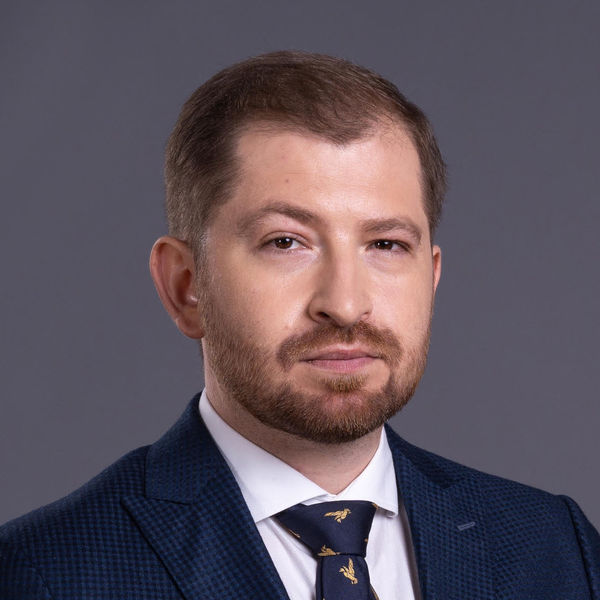
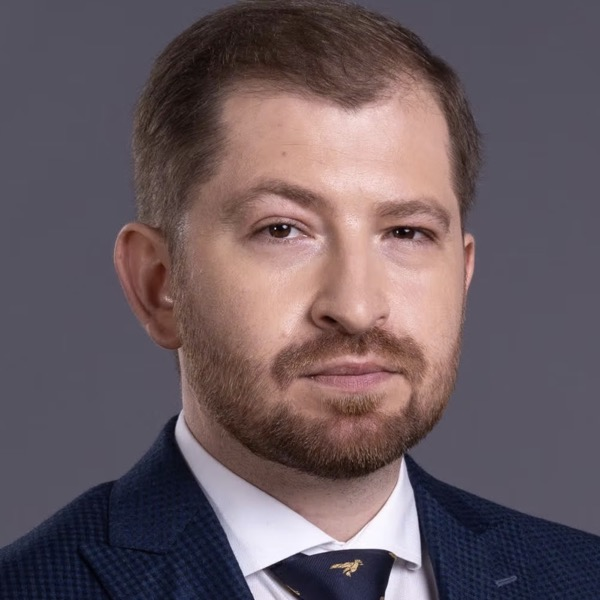
Give Artyushenko his photo on About and stop hotlinking portraits
На картці Анатолія Артюшенка стояла плашка з ініціалами: у старих даних його
ключ фото збігався з ключем Єгора, тож картка показувала чужий портрет, і я
прибрав його замість того, щоб показувати не ту людину. Його фотографія весь
час була на сторінці медичного страхування — перенесено звідти.

Портрети більше не тягнуться з чужих доменів: фото Артюшенка на dms.html
підключалося з Wix, актуальне фото Єгора — з Google Drive через інлайновий
скрипт. Обидва завантажено локально.

Той інлайновий скрипт патчив стару розмітку «Про нас», якої вже немає, бо
?page=about тепер веде на about.html — лишено тільки скидання скролу.

diff --git a/index.html b/index.html
@@ -11,4 +11,4 @@
 })();
 </script><meta name="theme-color" content="#142a46"><title>Страхове бюро «Компаньйон» — страхування для бізнесу</title><link rel="icon" href="presentation-assets/companion-logo.png"><link rel="stylesheet" href="styles.css"><link rel="stylesheet" href="home.css"><style>.site-nav a{transition:transform .16s ease,color .16s ease,border-color .16s ease}.site-nav a:hover{transform:translateY(-4px)}@media(prefers-reduced-motion:reduce){.site-nav a{transition:none}}.site-nav a.nav-active{color:#245dce;border-color:#245dce;transform:translateY(-4px)}body:not(.about-page) .signature{display:none!important}.about-page .person:first-child img{width:250px!important;height:250px!important;object-fit:contain!important;object-position:center!important;border-radius:50%!important;padding:26px!important;background:#e7eaef!important;clip-path:none!important}@media(max-width:700px){.about-page .person:first-child img{width:180px!important;height:180px!important;padding:18px!important}}</style></head><body>
 <a class="skip-link" href="#content">Перейти до основного контенту</a><header class="site-header"><div class="shell header-inner"><a class="brand" href="index.html" aria-label="Страхове бюро «Компаньйон» — на головну"><img src="presentation-assets/companion-logo.png" alt="Страхове бюро «Компаньйон»"></a><button class="menu-toggle" type="button" aria-expanded="false" aria-controls="site-nav">Меню</button><nav id="site-nav" class="site-nav" aria-label="Сайт"><a data-page="services" href="index.html?page=services">Послуги</a><a href="dms.html">Медичне страхування</a><a href="logistyka.html">Логістика</a><a href="yak-my-pratsyuyemo.html">Як працюємо</a><a data-page="about" href="about.html">Про нас</a><a href="partners.html">Страхові компанії</a><a href="app.html">Застосунок</a><a class="header-meeting" href="index.html#meeting">Домовитися про зустріч ↗</a></nav></div></header><main id="content"></main>
-<footer class="site-footer"><div class="shell footer-bar"><div class="footer-contacts"><a href="tel:+380501452605">+38 (050) 145 2605</a><a href="mailto:egor_m@icompanion.com.ua">egor_m@icompanion.com.ua</a><a href="https://t.me/EgorMuratov" target="_blank" rel="noreferrer">Telegram</a><a href="contacts.html">Контакти</a></div><div class="footer-legal"><span>ЄДРПОУ 39337363 · Реєстр брокерів № 35</span><a href="regulatory.html">Розкриття</a><a href="insurance-products.html">Продукти</a><a href="privacy.html">Персональні дані</a></div></div></footer><script src="home.js?v=6"></script><script src="script.js?v=15"></script><script>(()=>{const p=new URLSearchParams(location.search);if(p.get('page')==='about'){document.body.classList.add('about-page');const people=[...document.querySelectorAll('.person')];const yehor=people[0];const yehorPhoto=yehor?.querySelector('img');if(yehorPhoto){yehorPhoto.src='https://drive.google.com/uc?export=view&id=1pCVYWNGkw7fjjvcWYgz83RYEbNGpzCLN&v=4';yehorPhoto.alt='Єгор Муратов';}const art=people.find(el=>el.textContent.toLocaleUpperCase('uk-UA').includes('АНАТОЛІЙ АРТЮШЕНКО'));const photo=art?.querySelector('img');if(photo){photo.src='https://static.wixstatic.com/media/4d8e25_5c40445e2b604a378b1fc3bbc891b8ba~mv2.jpg';photo.alt='Анатолій Артюшенко';}}if(!p.get('page')&&!location.hash){window.scrollTo({top:0,left:0,behavior:'instant'});}})();</script></body></html>
+<footer class="site-footer"><div class="shell footer-bar"><div class="footer-contacts"><a href="tel:+380501452605">+38 (050) 145 2605</a><a href="mailto:egor_m@icompanion.com.ua">egor_m@icompanion.com.ua</a><a href="https://t.me/EgorMuratov" target="_blank" rel="noreferrer">Telegram</a><a href="contacts.html">Контакти</a></div><div class="footer-legal"><span>ЄДРПОУ 39337363 · Реєстр брокерів № 35</span><a href="regulatory.html">Розкриття</a><a href="insurance-products.html">Продукти</a><a href="privacy.html">Персональні дані</a></div></div></footer><script src="home.js?v=7"></script><script src="script.js?v=16"></script><script>(()=>{const p=new URLSearchParams(location.search);if(!p.get('page')&&!location.hash){window.scrollTo({top:0,left:0,behavior:'instant'});}})();</script></body></html>

diff --git a/dms.html b/dms.html
@@ -326,7 +326,7 @@
     <section class="section medical" id="support" aria-labelledby="support-title">
       <div class="wrap medical-grid">
         <figure class="expert-card">
-          <img class="expert-photo" src="https://static.wixstatic.com/media/4d8e25_5c40445e2b604a378b1fc3bbc891b8ba~mv2.jpg/v1/fill/w_385%2Ch_443%2Cal_c%2Cq_80%2Cusm_0.66_1.00_0.01%2Cenc_avif%2Cquality_auto/4d8e25_5c40445e2b604a378b1fc3bbc891b8ba~mv2.jpg" alt="Анатолій Артюшенко" width="385" height="443" loading="lazy" decoding="async">
+          <img class="expert-photo" src="presentation-assets/team/anatolii-portrait.jpg" alt="Анатолій Артюшенко" width="385" height="443" loading="lazy">
           <figcaption class="expert-caption">
             <strong class="expert-name">Анатолій Артюшенко</strong>
             <p class="expert-role">Старший партнер, директор з особистих видів страхування</p>

diff --git a/about.html b/about.html
@@ -111,7 +111,7 @@
           </article>
 
           <article class="team-member">
-            <div class="team-initials" aria-hidden="true">АА</div>
+            <img class="team-photo" src="presentation-assets/team/anatolii.jpg" alt="Анатолій Артюшенко" width="600" height="600" loading="lazy">
             <div>
               <h3>Анатолій Артюшенко</h3>
               <p class="team-role">Старший партнер, директор з особистих видів страхування</p>
